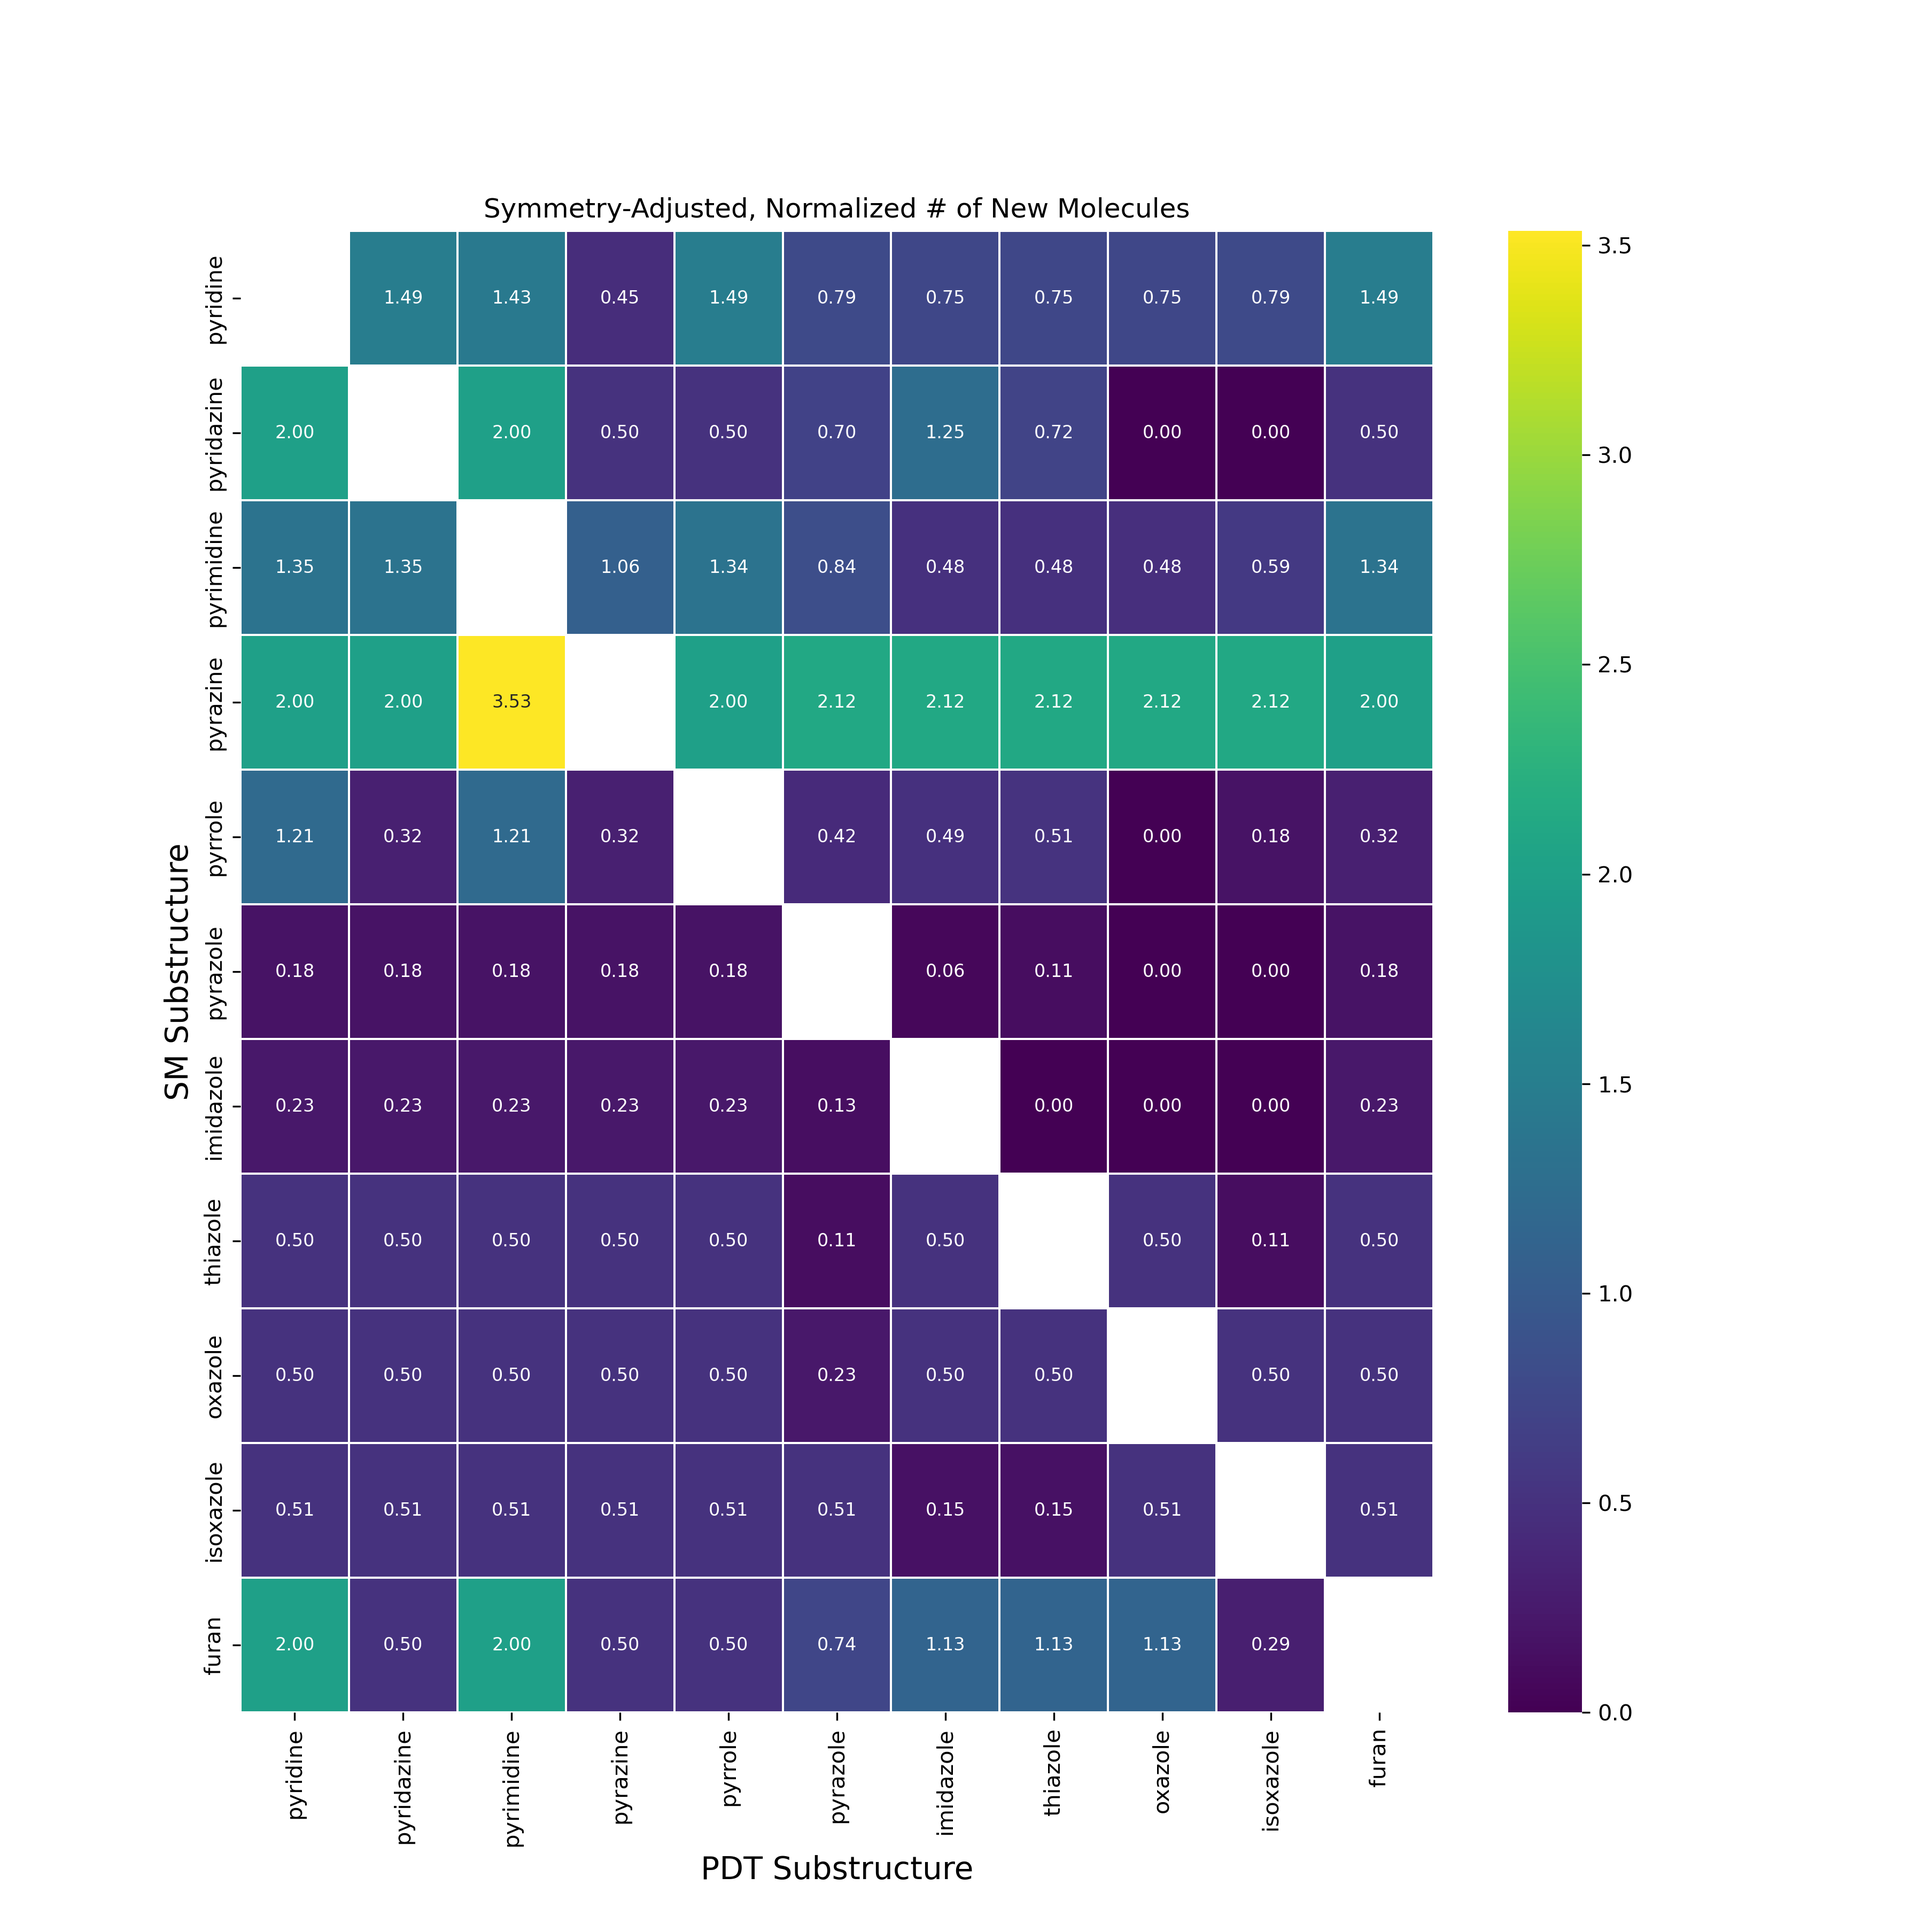
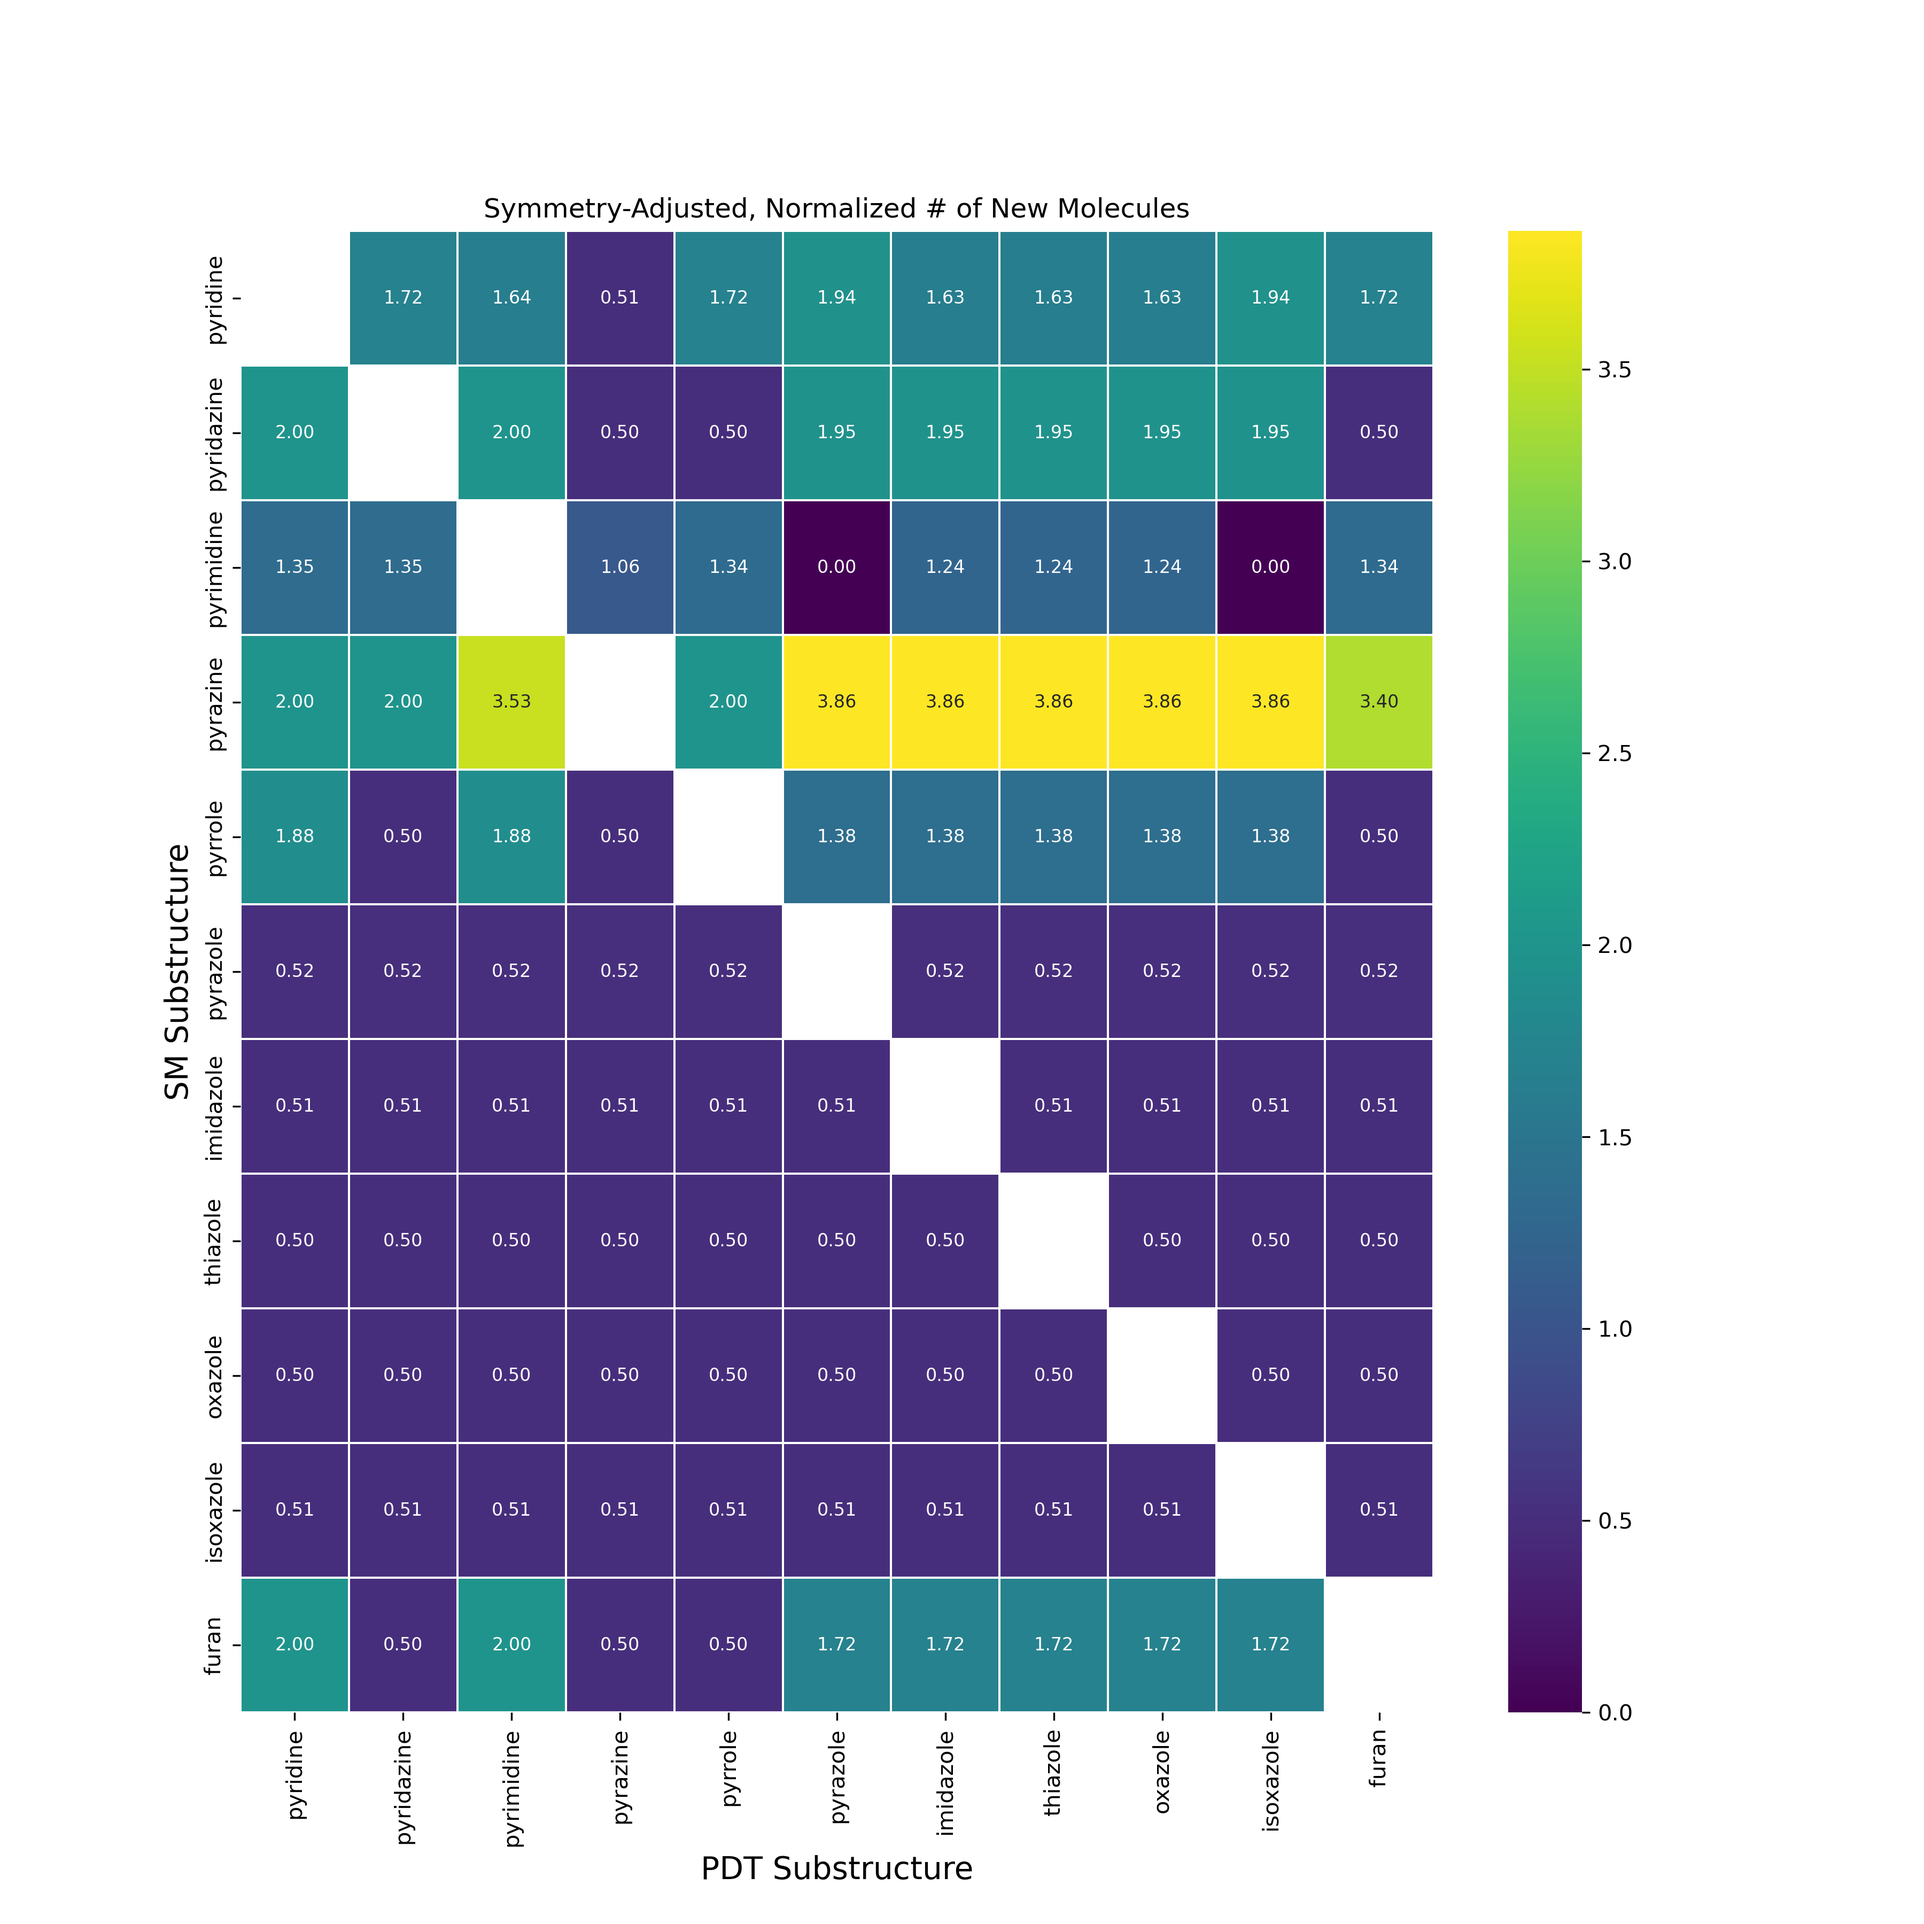
fixed a problem with the symmetry metric

Changed region(s): [[0.1244, 0.0933, 0.7467, 0.6844], [0.4044, 0.7467, 0.7156, 0.9022]]

diff --git a/test_short/heatmaps/gather_all_results.py b/test_short/heatmaps/gather_all_results.py
@@ -59,7 +59,7 @@ def count_sm_molecules(frameworks, sm_filenames):
     
     return sm_count_arr, sm_count_df
 
-
+'''
 def count_unique_molecules(frameworks, unique_filenames):
     # get the number of molecules classes
     num_frameworks = len(frameworks)
@@ -90,6 +90,47 @@ def count_unique_molecules(frameworks, unique_filenames):
                     columns = frameworks)
     
     return unique_count_arr, unique_count_df
+
+    # converts unique molecule count array to df
+    # SMs are listed on left side column, products are listed across the top
+    unique_count_df = pd.DataFrame(unique_count_arr,
+                    index = frameworks, 
+                    columns = frameworks)
+    
+    return unique_count_arr, unique_count_df
+'''
+
+
+def count_unique_molecules(frameworks, unique_filenames):
+    # get the number of molecules classes
+    num_frameworks = len(frameworks)
+
+    # initiate blank array for collecting results
+    product_count_arr = np.zeros((num_frameworks, num_frameworks), 
+                        dtype = float, 
+                        order = 'C')
+    
+    for idx1, framework1 in enumerate(frameworks):
+        for idx2, framework2 in enumerate(frameworks):
+            if framework1 != framework2:
+                for filename in unique_filenames:
+                    filename_match = f'../number_2_reactions/{framework1}_{framework1}2{framework2}.csv'
+
+                    if filename  == filename_match:
+                        opened_file = load_file_as_list(filename)
+                        product_count_arr[idx1, idx2] = len(opened_file)
+                        
+            else:
+                product_count_arr[idx1, idx2] = None
+                continue
+
+    # converts product molecule count array to df
+    # SMs are listed on left side column, products are listed across the top
+    product_count_df = pd.DataFrame(product_count_arr,
+                    index = frameworks, 
+                    columns = frameworks)
+    
+    return product_count_arr, product_count_df
 
 
 def count_new_molecules(frameworks, new_filenames):
@@ -238,7 +279,7 @@ frameworks = ['pyridine',
 
 # loads in filename repositories
 sm_filenames = load_file_as_list('sm_molecules_filenames.txt')
-unique_filenames = load_file_as_list('unique_molecules_filenames.txt')
+unique_filenames = load_file_as_list('product_molecules_filenames.txt') # change back to unique_molecules_filenames.txt eventually
 new_filenames = load_file_as_list('new_molecules_filenames.txt')
 common_filenames = load_file_as_list('common_molecules_filenames.txt')
 
@@ -267,7 +308,6 @@ symmetry_results = count_symmetric_molecules(frameworks, symmetric_filename)
 symmetry_results_arr = symmetry_results[0]
 symmetry_results_df = symmetry_results[1]
 
-
 # exports data to .csv files
 sm_count_df.to_csv('sm_count.csv', index=False)
 unique_count_df.to_csv('unique_count.csv', index=True)
@@ -291,7 +331,7 @@ GenerateHeatmap(symmetry_results_df, 'Symmetry Metric for Each Transformation', 
 
 # calculates results normalized to # of starting molecules
 normalized_unique_count_arr = unique_count_arr / sm_count_arr
-normalized_new_count_arr = new_count_arr / sm_count_arr
+normalized_new_count_arr = unique_count_arr / sm_count_arr # change this back to new_count_arr instead of unique_count_arr when fixed
 normalized_common_count_arr = common_count_arr / sm_count_arr
 
 # adjusts arrays based on symmetry metric
@@ -304,6 +344,9 @@ adjusted_new_count_df = pd.DataFrame(adjusted_new_count_arr,
                                       index = frameworks,
                                       columns = frameworks)
 GenerateHeatmap(adjusted_new_count_df, 'Symmetry-Adjusted, Normalized # of New Molecules',  filename = 'adjusted_new_count.png')
+
+# exports ^^ as csv
+adjusted_new_count_df.to_csv('adjusted_new_count.csv', index=True)
 
 # below is commented out because of zero issue (no common molecules found, currently)
 '''
